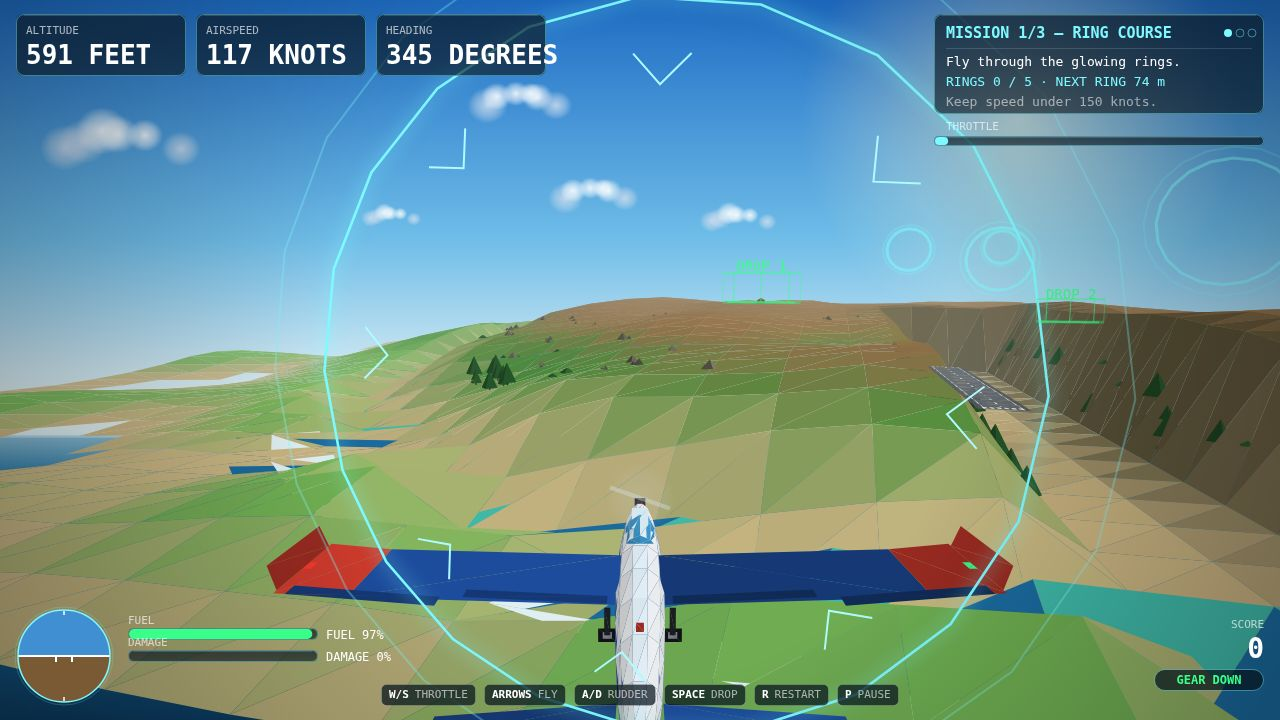
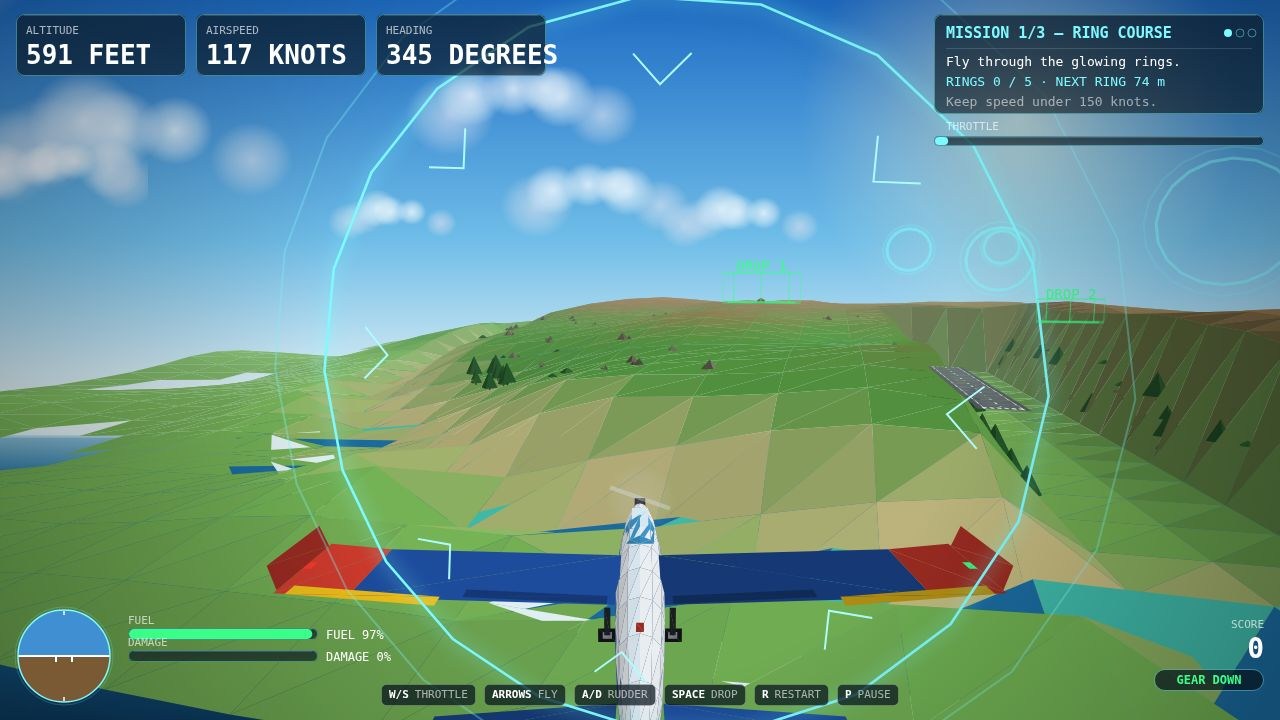
V2 for R2: greener valley, 12-sided fuselage, amber 30deg ailerons, bigger clouds

diff --git a/game/src/plane3d.js b/game/src/plane3d.js
@@ -111,6 +111,7 @@ const COL_HUB = "#9aa2ab";
 const COL_NAV_L = "#ff3b30";
 const COL_NAV_R = "#39ff88";
 const COL_PANEL = "#163a78";
+const COL_AILERON = "#f2c21a";
 const COL_SPINE = "#eaf7ff";
 
 function jetValid(jet) {
@@ -125,8 +126,8 @@ export function planeTris(jet) {
   const out = [];
   const xf = makeXform(jet);
 
-  // ---- FUSELAGE (10-station, 10-sided loft, smooth vertex-normal shading) ----
-  // 10 sides give a flat top edge (72-108 deg band) for the canopy to sit
+  // ---- FUSELAGE (10-station, 12-sided loft, smooth vertex-normal shading) ----
+  // 12 sides give a flat top edge (75-105 deg band) for the canopy to sit
   // on and a much rounder rear silhouette than the old octagon; the light
   // per ring vertex is the elliptical radial normal, averaged per triangle
   // (same trick as the terrain's vertexLight), so the tube reads smooth.
@@ -142,7 +143,7 @@ export function planeTris(jet) {
     [-11, 0.58, 0.62],
     [-13, 0.34, 0.38]
   ];
-  const N = 10;
+  const N = 12;
   const rings = [];
   const ringLights = [];
   for (let i = 0; i < stations.length; i++) {
@@ -171,7 +172,7 @@ export function planeTris(jet) {
     pushTriLit(out, xf, noseTip, r0[k], r0[k2], COL_NOSE, noseLight, l0[k], l0[k2]);
   }
 
-  // side quads — the top band (k=2, 72-108 deg) is the bright spine stripe
+  // side quads — the top band (k=3, 75-105 deg) is the bright spine stripe
   for (let i = 0; i < rings.length - 1; i++) {
     const ra = rings[i];
     const rb = rings[i + 1];
@@ -182,7 +183,7 @@ export function planeTris(jet) {
       const a = ra[k], b = ra[k2], c = rb[k2], d = rb[k];
       const mz = (a[2] + b[2] + c[2] + d[2]) / 4;
       let col;
-      if (k === 2) col = COL_SPINE;
+      if (k === 3) col = COL_SPINE;
       else col = mz < 0 ? COL_BELLY : COL_TOP;
       pushQuadLit(out, xf, a, b, c, d, col, la[k], la[k2], lb[k2], lb[k]);
     }
@@ -273,19 +274,21 @@ export function planeTris(jet) {
     // 0) puts the RIGHT aileron UP and the LEFT aileron DOWN. With the
     // hinge axis root -> tip, a positive Rodrigues angle drops the right
     // trailing edge and lifts the left one, so the angle is negative when
-    // bankDeg is positive: theta = -(bankDeg/45) * 25deg, same sign both
-    // sides, opposite deflections. 25deg (not 15) so the deflection reads
-    // clearly from the rear chase view — still inside real aileron travel
-    // (up to ~25deg). Driven by jet.bankDeg (the physics value), visual
-    // only — never feeds back into the flight model.
+    // bankDeg is positive: theta = -(bankDeg/45) * 30deg, same sign both
+    // sides, opposite deflections. 30deg (was 25) plus the amber colour so
+    // the deflection reads clearly in a static rear view — at the top end
+    // of real aileron travel (~25-30deg). Amber (#f2c21a) pops against
+    // both the blue inner panel and the red tip panel. Driven by
+    // jet.bankDeg (the physics value), visual only — never feeds back into
+    // the flight model.
     const aF = [s * 9, -1.6, 0.53];
     const aB = [s * 9, -2.5, 0.53];
     const aF2 = [s * 15.5, -1.6, 1.06];
     const aB2 = [s * 15.5, -2.5, 1.06];
-    const theta = -(jet.bankDeg / 45) * (25 * Math.PI / 180);
+    const theta = -(jet.bankDeg / 45) * (30 * Math.PI / 180);
     const aBr = rotHinge(aB, aF, aF2, theta);
     const aB2r = rotHinge(aB2, aF, aF2, theta);
-    pushQuad(out, xf, aF, aF2, aB2r, aBr, COL_PANEL);
+    pushQuad(out, xf, aF, aF2, aB2r, aBr, COL_AILERON);
     // flap
     const fF = [s * 1.5, -0.7, 0.16];
     const fB = [s * 1.5, -1.5, 0.16];

diff --git a/game/src/terrain.js b/game/src/terrain.js
@@ -187,12 +187,13 @@ export function heightAt(x, y, seed) {
 }
 
 function terrainColorSmooth(h, r, x, y, seed, slope) {
-  let col = "#d8c08a";
-  const w1 = smoothstep(3, 16, h);
-  col = hexLerp(col, "#79b657", w1);
+  // Base is meadow green (was sand): the valley floor (h near 0) and lower
+  // slopes read green/lush now; sand survives only at the beach (r 950-1150
+  // blend below). Brown is pushed up to genuinely high ground (110-155).
+  let col = "#79b657";
   const w2 = smoothstep(35, 60, h);
   col = hexLerp(col, "#4d8a3a", w2);
-  const w3 = smoothstep(85, 125, h);
+  const w3 = smoothstep(110, 155, h);
   col = hexLerp(col, "#8a6a44", w3);
   const w4 = smoothstep(150, 210, h);
   col = hexLerp(col, "#7a7568", w4);
@@ -203,8 +204,10 @@ function terrainColorSmooth(h, r, x, y, seed, slope) {
   // Slope/elevation shading: steep ground goes darker mossy rock, high
   // steep peaks go pale ridge rock. slope = 1 - normalZ (0 = flat).
   const steep = smoothstep(0.14, 0.30, slope);
+  // Mossy rock only on steep AND high ground: low steep slopes stay green.
+  const highGround = smoothstep(60, 110, h);
   const beachOff = 1 - smoothstep(1000, 1150, r);
-  col = hexLerp(col, "#5d5838", steep * beachOff * 0.7);
+  col = hexLerp(col, "#5d5838", steep * highGround * beachOff * 0.7);
   const peak = smoothstep(160, 205, h) * (0.4 + 0.6 * smoothstep(0.10, 0.25, slope));
   col = hexLerp(col, "#8d867a", peak * 0.6);
   const cs = 260;
@@ -380,12 +383,12 @@ export function buildIsland(seed) {
     bushes.push({ x, y, z: h, s: 4 + rng() * 5, rot: rng() * Math.PI });
   }
   const clouds = [];
-  for (let i = 0; i < 10; i++) {
+  for (let i = 0; i < 14; i++) {
     clouds.push({
       x: (rng() * 2 - 1) * 3200,
       y: (rng() * 2 - 1) * 3200,
       z: 480 + rng() * 180,
-      rx: 120 + rng() * 140
+      rx: 200 + rng() * 200
     });
   }
   const huts = HUT_SPOTS.map(p => ({ x: p.x, y: p.y, z: heightAt(p.x, p.y, seed) }));

diff --git a/game/src/render.js b/game/src/render.js
@@ -387,13 +387,13 @@ export function drawScene(ctx, world, fx) {
 
     // clouds
     if (island && island.clouds) {
-      ctx.globalAlpha = 0.92;
+      ctx.globalAlpha = 0.78;
       for (let i = 0; i < island.clouds.length; i++) {
         const c = island.clouds[i];
         const dx = wrap(c.x + time * 8, -3400, 3400);
         const p = project(cam, dx, c.y, c.z);
         if (!p || p.s <= 0.02) continue;
-        const base = c.rx * p.s;
+        const base = c.rx * p.s * 1.35;
         if (base < 2 || base > 4000) continue;
         const sprite = cloudSprites[i % 3];
         ctx.drawImage(sprite, p.x - base, p.y - base * 0.45, base * 2, base * 0.9);
